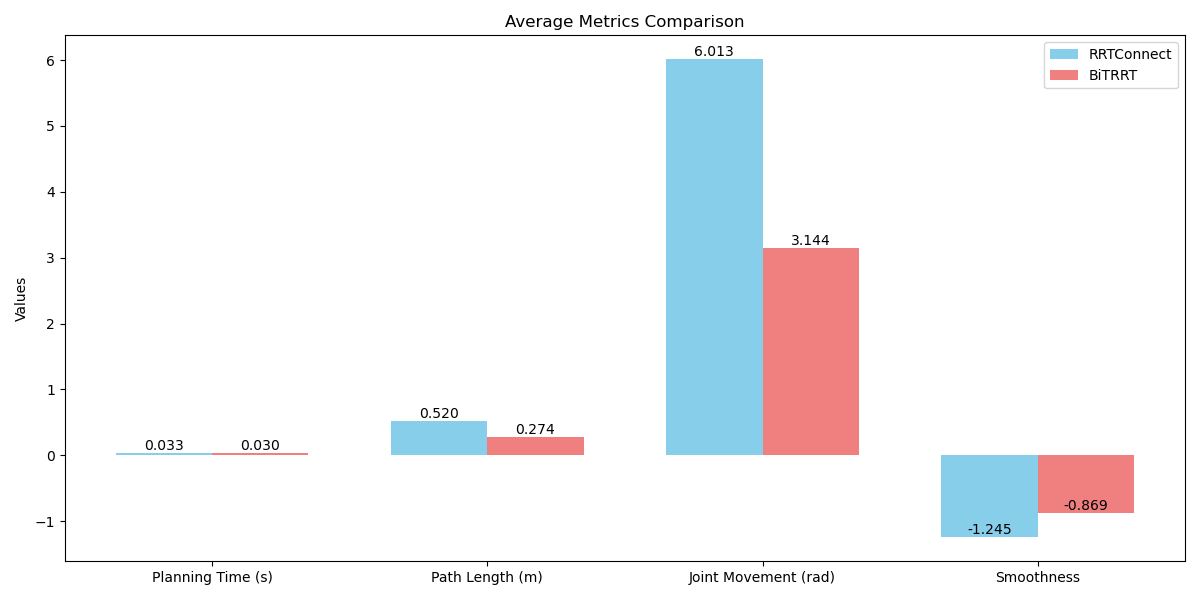
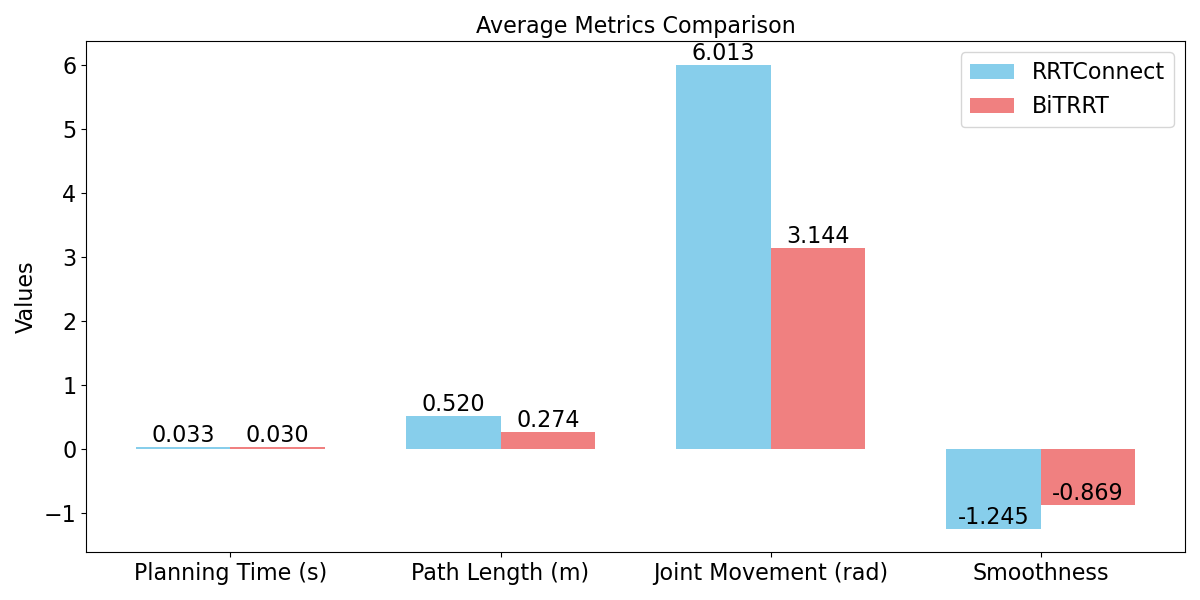
[STYLE]: 增大数据图像字体

diff --git a/src/planning_node/view/planning.py b/src/planning_node/view/planning.py
@@ -57,23 +57,25 @@ for i, (metric, title) in enumerate(zip(metrics, titles)):
     ax = axes[i, 0]
     for j in range(len(rrt_data)):
         ax.plot(rrt_data[j][metric], label=f'Test {j+1}')
-    ax.set_title(f'RRTConnect - {title}')
-    ax.set_xlabel('Position')
-    ax.set_ylabel(title)
+    ax.set_title(f'RRTConnect - {title}', fontsize=16)
+    ax.set_xlabel('Position', fontsize=16)
+    ax.set_ylabel(title, fontsize=16)
+    ax.tick_params(axis='both', labelsize=16)  # 设置刻度字体大小
     ax.set_ylim(y_min, y_max)  # 设置y轴范围
     ax.grid(True)
-    ax.legend(loc='upper right')  # 指定图例位置在右上角
+    ax.legend(loc='upper right', fontsize=16)  # 指定图例位置在右上角
 
     # BiTRRT
     ax = axes[i, 1]
     for j in range(len(bitrrt_data)):
         ax.plot(bitrrt_data[j][metric], label=f'Test {j+1}')
-    ax.set_title(f'BiTRRT - {title}')
-    ax.set_xlabel('Position')
-    ax.set_ylabel(title)
+    ax.set_title(f'BiTRRT - {title}', fontsize=16)
+    ax.set_xlabel('Position', fontsize=16)
+    ax.set_ylabel(title, fontsize=16)
+    ax.tick_params(axis='both', labelsize=16)  # 设置刻度字体大小
     ax.set_ylim(y_min, y_max)  # 设置相同的y轴范围
     ax.grid(True)
-    ax.legend(loc='upper right')  # 指定图例位置在右上角
+    ax.legend(loc='upper right', fontsize=16)  # 指定图例位置在右上角
 
 plt.tight_layout()
 plt.savefig('src/planning_node/test_results/comparison_lines.png')
@@ -108,16 +110,17 @@ plt.bar(x - width/2, list(rrt_means.values()), width, label='RRTConnect', color=
 plt.bar(x + width/2, list(bitrrt_means.values()), width, label='BiTRRT', color='lightcoral')
 
 # 设置图表属性
-plt.ylabel('Values')
-plt.title('Average Metrics Comparison')
-plt.xticks(x, titles)
-plt.legend()
+plt.ylabel('Values', fontsize=16)
+plt.title('Average Metrics Comparison', fontsize=16)
+plt.xticks(x, titles, fontsize=16)
+plt.yticks(fontsize=16)  # 设置y轴刻度字体大小
+plt.legend(fontsize=16)
 
 # 在柱子上添加数值标签
 for i, v in enumerate(list(rrt_means.values())):
-    plt.text(i - width/2, v, f'{v:.3f}', ha='center', va='bottom')
+    plt.text(i - width/2, v, f'{v:.3f}', ha='center', va='bottom', fontsize=16)
 for i, v in enumerate(list(bitrrt_means.values())):
-    plt.text(i + width/2, v, f'{v:.3f}', ha='center', va='bottom')
+    plt.text(i + width/2, v, f'{v:.3f}', ha='center', va='bottom', fontsize=16)
 
 plt.tight_layout()
 plt.savefig('src/planning_node/test_results/comparison_bars.png')
